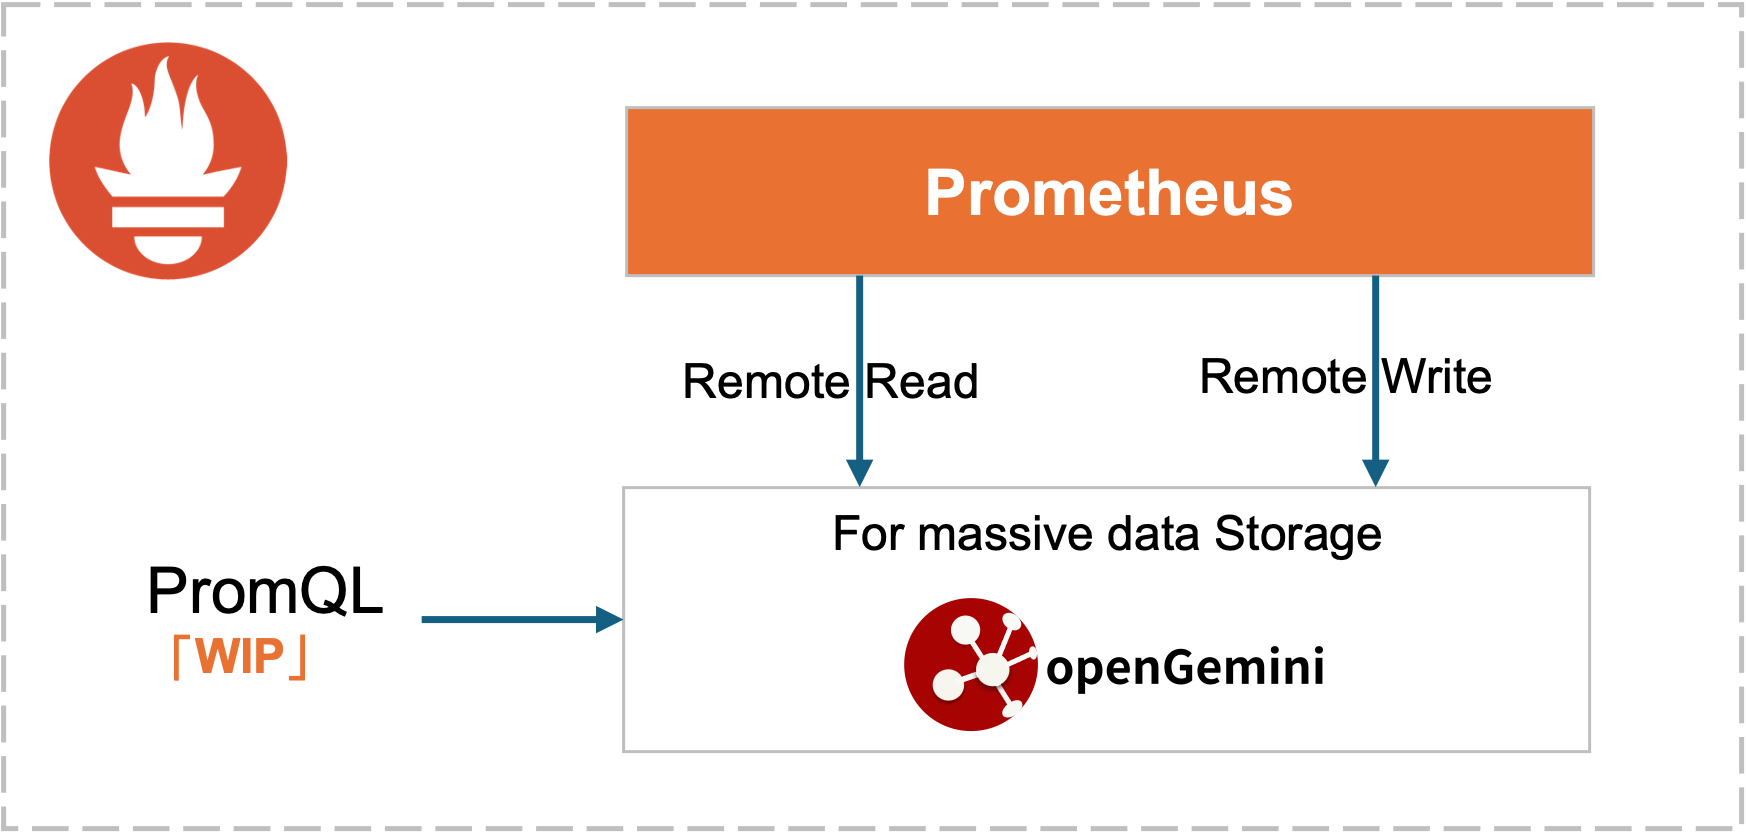
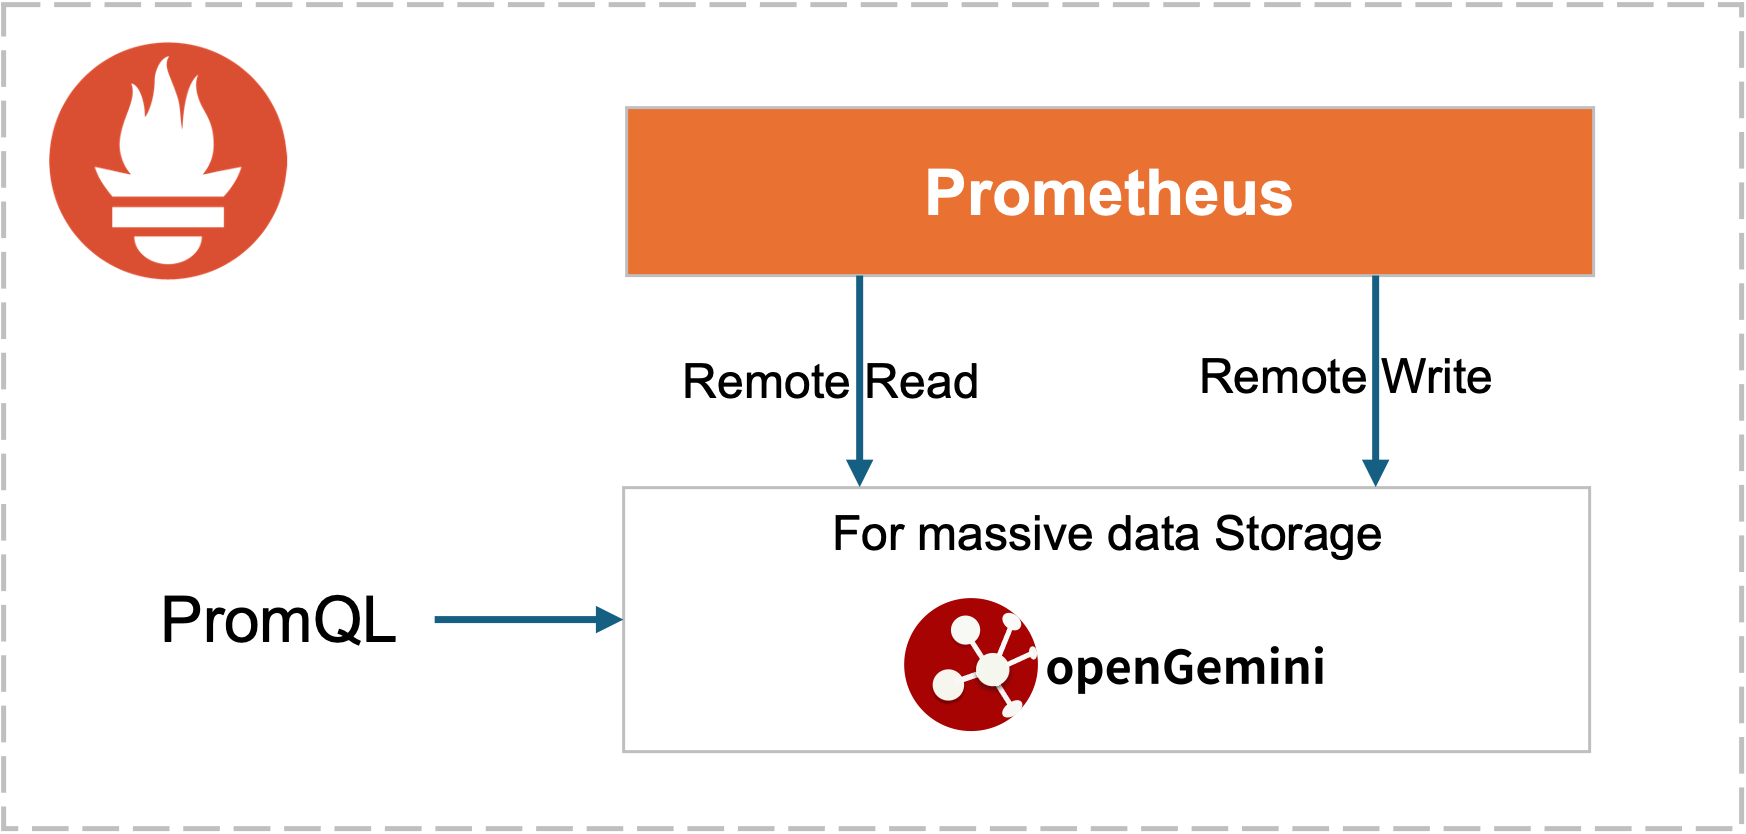
chore: update readme

Changed region(s): [[0.0619, 0.6859, 0.2165, 0.8106]]

diff --git a/README.md b/README.md
@@ -21,6 +21,10 @@ openGemini is a cloud-native distributed time series database, focusing on the s
 
 If you have used openGemini, please let us know and [click submit Usage Information](https://github.com/openGemini/openGemini/issues/62)
 
+![cncf_logo](./images/cncf-logo.png)
+
+openGemini is an sandbox project of the [Cloud Native Computing Foundation](https://cncf.io/) (CNCF). Please consider joining the CNCF if you are an organization that wants to take an active role in supporting the growth and evolution of the cloud native ecosystem.
+
 ## Why openGemini
 
 Compared with other time series database, openGemini has the following advantages:
@@ -59,9 +63,9 @@ Compared with other time series database, openGemini has the following advantage
 
   <img src="./images/openTelemetry.png" alt="image-20220927210909436" style="width:60%;" />
 
-- Prometheus backend storage，support remote read/write, and Support PromQL **[WIP]** 
+- Prometheus backend storage，support remote read/write, and Support PromQL 
 
-  <img src="./images/prometheus.png" alt="image-20220927210909436" style="width:60%;" />
+  <img src="./images/prometheus.png" alt="" style="width:60%;" />
 
 - KubeEdge integration with openGemini, better manage edge device data
 
